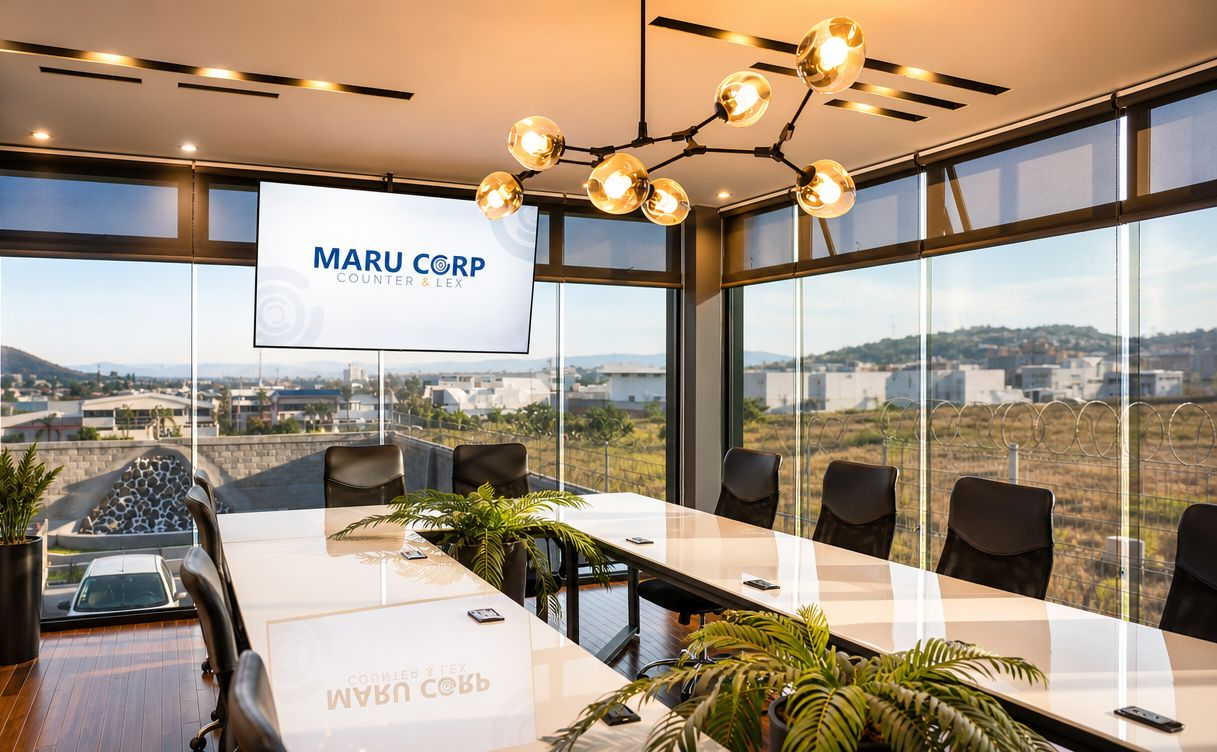
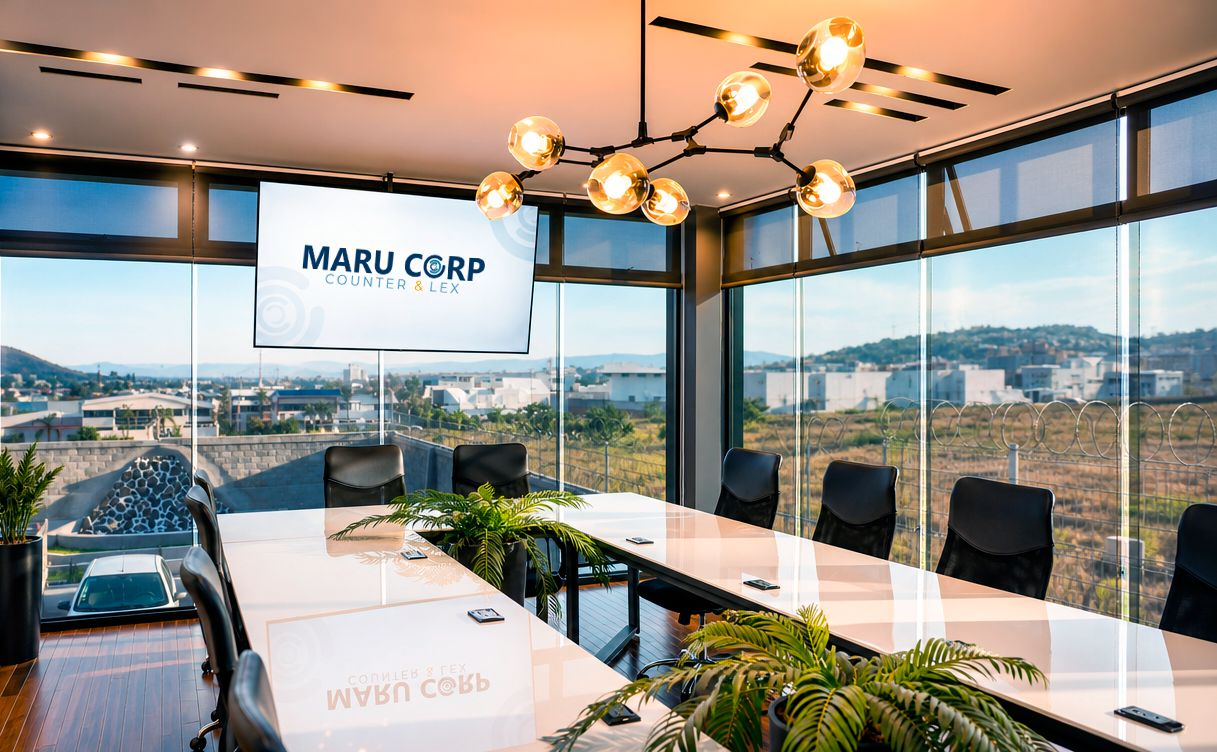
Ajustes de contenido y estilo: titulo en un renglon, testimonios justificados, mayusculas, redes sociales en footer, articulos centrados, CTA en blanco, nueva foto sala de juntas y timeout de Supabase

diff --git a/index.html b/index.html
@@ -30,14 +30,14 @@
     "areaServed": "Querétaro"
   }
   </script>
-  <link rel="stylesheet" href="css/styles.css?v=60">
+  <link rel="stylesheet" href="css/styles.css?v=63">
   <link rel="stylesheet" href="css/brand-premium.css?v=60">
   <link rel="stylesheet" href="css/header.css?v=70">
   <link rel="stylesheet" href="css/preloader.css">
   <link rel="stylesheet" href="css/custom-cursor.css">
   <link rel="stylesheet" href="css/home-animations.css?v=62">
   <link rel="stylesheet" href="css/home-hero.css?v=62">
-  <link rel="stylesheet" href="css/home-strategic.css?v=68">
+  <link rel="stylesheet" href="css/home-strategic.css?v=71">
   <link rel="stylesheet" href="css/responsive.css?v=70">
   <link rel="stylesheet" href="css/photos.css?v=1">
 </head>
@@ -541,13 +541,13 @@
           <h3 class="home-subhead">MARU CORP es ideal para empresas que:</h3>
         </div>
         <div class="home-audience-grid reveal-stagger home-cards-live">
-          <article class="audience-item audience-item--gold home-tilt"><span class="audience-item__icon" aria-hidden="true">✓</span><span class="audience-item__text">tienen entre 20 y 300 colaboradores;</span></article>
-          <article class="audience-item audience-item--blue home-tilt"><span class="audience-item__icon" aria-hidden="true">✓</span><span class="audience-item__text">operan con varias áreas o responsables;</span></article>
-          <article class="audience-item audience-item--navy home-tilt"><span class="audience-item__icon" aria-hidden="true">✓</span><span class="audience-item__text">tienen crecimiento desordenado;</span></article>
-          <article class="audience-item audience-item--sky home-tilt"><span class="audience-item__icon" aria-hidden="true">✓</span><span class="audience-item__text">trabajan con distintos proveedores;</span></article>
-          <article class="audience-item audience-item--gold home-tilt"><span class="audience-item__icon" aria-hidden="true">✓</span><span class="audience-item__text">necesitan mayor control fiscal, laboral o administrativo;</span></article>
-          <article class="audience-item audience-item--blue home-tilt"><span class="audience-item__icon" aria-hidden="true">✓</span><span class="audience-item__text">sienten que la operación depende demasiado del dueño;</span></article>
-          <article class="audience-item audience-item--navy home-tilt"><span class="audience-item__icon" aria-hidden="true">✓</span><span class="audience-item__text">quieren prevenir errores antes de que escalen.</span></article>
+          <article class="audience-item audience-item--gold home-tilt"><span class="audience-item__icon" aria-hidden="true">✓</span><span class="audience-item__text">Tienen entre 20 y 300 colaboradores;</span></article>
+          <article class="audience-item audience-item--blue home-tilt"><span class="audience-item__icon" aria-hidden="true">✓</span><span class="audience-item__text">Operan con varias áreas o responsables;</span></article>
+          <article class="audience-item audience-item--navy home-tilt"><span class="audience-item__icon" aria-hidden="true">✓</span><span class="audience-item__text">Tienen crecimiento desordenado;</span></article>
+          <article class="audience-item audience-item--sky home-tilt"><span class="audience-item__icon" aria-hidden="true">✓</span><span class="audience-item__text">Trabajan con distintos proveedores;</span></article>
+          <article class="audience-item audience-item--gold home-tilt"><span class="audience-item__icon" aria-hidden="true">✓</span><span class="audience-item__text">Necesitan mayor control fiscal, laboral o administrativo;</span></article>
+          <article class="audience-item audience-item--blue home-tilt"><span class="audience-item__icon" aria-hidden="true">✓</span><span class="audience-item__text">Sienten que la operación depende demasiado del dueño;</span></article>
+          <article class="audience-item audience-item--navy home-tilt"><span class="audience-item__icon" aria-hidden="true">✓</span><span class="audience-item__text">Quieren prevenir errores antes de que escalen.</span></article>
         </div>
         <p class="home-closing-line reveal">Cuando una empresa crece, la supervisión deja de ser opcional.</p>
       </div>
@@ -696,8 +696,8 @@
       <div class="footer-bottom">
         <p>© <span id="year"></span> MARU CORP. Todos los derechos reservados.</p>
         <div class="footer-social">
-          <a href="https://www.facebook.com/marucorpqro/" target="_blank" rel="noopener" aria-label="Facebook de MARU CORP">f</a>
-          <a href="https://www.instagram.com/maru_corp/" target="_blank" rel="noopener" aria-label="Instagram de MARU CORP">in</a>
+          <a href="https://www.facebook.com/marucorpqro/" target="_blank" rel="noopener" aria-label="Facebook de MARU CORP"><svg viewBox="0 0 24 24" aria-hidden="true" focusable="false"><path fill="currentColor" d="M13.5 21.5v-8h2.7l.4-3.2h-3.1V8.3c0-.9.3-1.5 1.6-1.5h1.7V4c-.3 0-1.3-.1-2.5-.1-2.4 0-4.1 1.5-4.1 4.2v2.3H7.5v3.2h2.7v8h3.3z"/></svg></a>
+          <a href="https://www.instagram.com/maru_corp/" target="_blank" rel="noopener" aria-label="Instagram de MARU CORP"><svg viewBox="0 0 24 24" aria-hidden="true" focusable="false"><rect x="3.5" y="3.5" width="17" height="17" rx="5" fill="none" stroke="currentColor" stroke-width="1.9"/><circle cx="12" cy="12" r="3.9" fill="none" stroke="currentColor" stroke-width="1.9"/><circle cx="17.2" cy="6.8" r="1.2" fill="currentColor"/></svg></a>
         </div>
       </div>
     </div>

diff --git a/insights-empresariales.html b/insights-empresariales.html
@@ -9,9 +9,9 @@
   <link rel="canonical" href="https://marucorp.mx/insights-empresariales.html">
   <meta property="og:title" content="Insights de Supervisión Empresarial | MARU CORP">
   <meta property="og:description" content="Análisis, ideas y recomendaciones sobre supervisión empresarial, riesgos invisibles, prevención fiscal-laboral y operación integrada.">
-  <link rel="stylesheet" href="css/styles.css">
+  <link rel="stylesheet" href="css/styles.css?v=63">
   <link rel="stylesheet" href="css/brand-premium.css">
-  <link rel="stylesheet" href="css/insights-page.css?v=70">
+  <link rel="stylesheet" href="css/insights-page.css?v=72">
   <link rel="stylesheet" href="css/header.css?v=70">
   <link rel="stylesheet" href="css/custom-cursor.css">
   <link rel="stylesheet" href="css/pages-enhanced.css?v=68">
@@ -184,8 +184,8 @@
       <div class="footer-bottom">
         <p>Todos los derechos reservados © <span id="year"></span> | Editado por Disidente Creativo</p>
         <div class="footer-social">
-          <a href="https://www.facebook.com/marucorpqro/" aria-label="Facebook" target="_blank" rel="noopener">Facebook</a>
-          <a href="https://www.instagram.com/maru_corp/" aria-label="Instagram" target="_blank" rel="noopener">Instagram</a>
+          <a href="https://www.facebook.com/marucorpqro/" target="_blank" rel="noopener" aria-label="Facebook de MARU CORP"><svg viewBox="0 0 24 24" aria-hidden="true" focusable="false"><path fill="currentColor" d="M13.5 21.5v-8h2.7l.4-3.2h-3.1V8.3c0-.9.3-1.5 1.6-1.5h1.7V4c-.3 0-1.3-.1-2.5-.1-2.4 0-4.1 1.5-4.1 4.2v2.3H7.5v3.2h2.7v8h3.3z"/></svg></a>
+          <a href="https://www.instagram.com/maru_corp/" target="_blank" rel="noopener" aria-label="Instagram de MARU CORP"><svg viewBox="0 0 24 24" aria-hidden="true" focusable="false"><rect x="3.5" y="3.5" width="17" height="17" rx="5" fill="none" stroke="currentColor" stroke-width="1.9"/><circle cx="12" cy="12" r="3.9" fill="none" stroke="currentColor" stroke-width="1.9"/><circle cx="17.2" cy="6.8" r="1.2" fill="currentColor"/></svg></a>
         </div>
       </div>
     </div>
@@ -199,7 +199,7 @@
   <script>document.getElementById('year').textContent = new Date().getFullYear();</script>
   <script src="js/main.js"></script>
   <script src="js/supabase-config.js?v=2"></script>
-  <script src="js/blog-data.js?v=1"></script>
+  <script src="js/blog-data.js?v=2"></script>
   <script src="js/insights.js?v=4"></script>
   <script src="js/custom-cursor.js"></script>
 </body>

diff --git a/insights/servicios-administrativos-vs-control-empresarial.html b/insights/servicios-administrativos-vs-control-empresarial.html
@@ -6,9 +6,9 @@
   <link rel="icon" href="../img/favicon.png" type="image/png">
   <title>Diferencia entre contratar servicios administrativos y tener control empresarial | Insights — MARU CORP</title>
   <meta name="description" content="Contratar servicios resuelve tareas. El control empresarial da visibilidad, coordinación y prevención. Son enfoques distintos con resultados muy diferentes.">
-  <link rel="stylesheet" href="../css/styles.css">
+  <link rel="stylesheet" href="../css/styles.css?v=63">
   <link rel="stylesheet" href="../css/brand-premium.css">
-  <link rel="stylesheet" href="../css/insights-page.css?v=67">
+  <link rel="stylesheet" href="../css/insights-page.css?v=72">
   <link rel="stylesheet" href="../css/header.css?v=70">
   <link rel="stylesheet" href="../css/custom-cursor.css">
   <link rel="stylesheet" href="../css/pages-enhanced.css?v=68">
@@ -154,8 +154,8 @@
       <div class="footer-bottom">
         <p>Todos los derechos reservados © <span id="year"></span> | Editado por Disidente Creativo</p>
         <div class="footer-social">
-          <a href="https://www.facebook.com/marucorpqro/" aria-label="Facebook" target="_blank" rel="noopener">Facebook</a>
-          <a href="https://www.instagram.com/maru_corp/" aria-label="Instagram" target="_blank" rel="noopener">Instagram</a>
+          <a href="https://www.facebook.com/marucorpqro/" target="_blank" rel="noopener" aria-label="Facebook de MARU CORP"><svg viewBox="0 0 24 24" aria-hidden="true" focusable="false"><path fill="currentColor" d="M13.5 21.5v-8h2.7l.4-3.2h-3.1V8.3c0-.9.3-1.5 1.6-1.5h1.7V4c-.3 0-1.3-.1-2.5-.1-2.4 0-4.1 1.5-4.1 4.2v2.3H7.5v3.2h2.7v8h3.3z"/></svg></a>
+          <a href="https://www.instagram.com/maru_corp/" target="_blank" rel="noopener" aria-label="Instagram de MARU CORP"><svg viewBox="0 0 24 24" aria-hidden="true" focusable="false"><rect x="3.5" y="3.5" width="17" height="17" rx="5" fill="none" stroke="currentColor" stroke-width="1.9"/><circle cx="12" cy="12" r="3.9" fill="none" stroke="currentColor" stroke-width="1.9"/><circle cx="17.2" cy="6.8" r="1.2" fill="currentColor"/></svg></a>
         </div>
       </div>
     </div>

diff --git a/insights/riesgos-fiscales-procesos-desordenados.html b/insights/riesgos-fiscales-procesos-desordenados.html
@@ -6,9 +6,9 @@
   <link rel="icon" href="../img/favicon.png" type="image/png">
   <title>Riesgos fiscales que nacen de procesos internos mal coordinados | Insights — MARU CORP</title>
   <meta name="description" content="No todos los riesgos fiscales vienen del SAT. Muchos se originan en procesos administrativos desordenados, documentación incompleta y falta de seguimiento entre áreas.">
-  <link rel="stylesheet" href="../css/styles.css">
+  <link rel="stylesheet" href="../css/styles.css?v=63">
   <link rel="stylesheet" href="../css/brand-premium.css">
-  <link rel="stylesheet" href="../css/insights-page.css?v=67">
+  <link rel="stylesheet" href="../css/insights-page.css?v=72">
   <link rel="stylesheet" href="../css/header.css?v=70">
   <link rel="stylesheet" href="../css/custom-cursor.css">
   <link rel="stylesheet" href="../css/pages-enhanced.css?v=68">
@@ -154,8 +154,8 @@
       <div class="footer-bottom">
         <p>Todos los derechos reservados © <span id="year"></span> | Editado por Disidente Creativo</p>
         <div class="footer-social">
-          <a href="https://www.facebook.com/marucorpqro/" aria-label="Facebook" target="_blank" rel="noopener">Facebook</a>
-          <a href="https://www.instagram.com/maru_corp/" aria-label="Instagram" target="_blank" rel="noopener">Instagram</a>
+          <a href="https://www.facebook.com/marucorpqro/" target="_blank" rel="noopener" aria-label="Facebook de MARU CORP"><svg viewBox="0 0 24 24" aria-hidden="true" focusable="false"><path fill="currentColor" d="M13.5 21.5v-8h2.7l.4-3.2h-3.1V8.3c0-.9.3-1.5 1.6-1.5h1.7V4c-.3 0-1.3-.1-2.5-.1-2.4 0-4.1 1.5-4.1 4.2v2.3H7.5v3.2h2.7v8h3.3z"/></svg></a>
+          <a href="https://www.instagram.com/maru_corp/" target="_blank" rel="noopener" aria-label="Instagram de MARU CORP"><svg viewBox="0 0 24 24" aria-hidden="true" focusable="false"><rect x="3.5" y="3.5" width="17" height="17" rx="5" fill="none" stroke="currentColor" stroke-width="1.9"/><circle cx="12" cy="12" r="3.9" fill="none" stroke="currentColor" stroke-width="1.9"/><circle cx="17.2" cy="6.8" r="1.2" fill="currentColor"/></svg></a>
         </div>
       </div>
     </div>

diff --git a/insights/varios-proveedores-riesgos-administrativos.html b/insights/varios-proveedores-riesgos-administrativos.html
@@ -6,9 +6,9 @@
   <link rel="icon" href="../img/favicon.png" type="image/png">
   <title>Por qué tener varios proveedores puede aumentar tus riesgos administrativos | Insights — MARU CORP</title>
   <meta name="description" content="Contratar especialistas por área no garantiza control. Sin coordinación central, los riesgos administrativos pueden multiplicarse en lugar de reducirse.">
-  <link rel="stylesheet" href="../css/styles.css">
+  <link rel="stylesheet" href="../css/styles.css?v=63">
   <link rel="stylesheet" href="../css/brand-premium.css">
-  <link rel="stylesheet" href="../css/insights-page.css?v=67">
+  <link rel="stylesheet" href="../css/insights-page.css?v=72">
   <link rel="stylesheet" href="../css/header.css?v=70">
   <link rel="stylesheet" href="../css/custom-cursor.css">
   <link rel="stylesheet" href="../css/pages-enhanced.css?v=68">
@@ -156,8 +156,8 @@
       <div class="footer-bottom">
         <p>Todos los derechos reservados © <span id="year"></span> | Editado por Disidente Creativo</p>
         <div class="footer-social">
-          <a href="https://www.facebook.com/marucorpqro/" aria-label="Facebook" target="_blank" rel="noopener">Facebook</a>
-          <a href="https://www.instagram.com/maru_corp/" aria-label="Instagram" target="_blank" rel="noopener">Instagram</a>
+          <a href="https://www.facebook.com/marucorpqro/" target="_blank" rel="noopener" aria-label="Facebook de MARU CORP"><svg viewBox="0 0 24 24" aria-hidden="true" focusable="false"><path fill="currentColor" d="M13.5 21.5v-8h2.7l.4-3.2h-3.1V8.3c0-.9.3-1.5 1.6-1.5h1.7V4c-.3 0-1.3-.1-2.5-.1-2.4 0-4.1 1.5-4.1 4.2v2.3H7.5v3.2h2.7v8h3.3z"/></svg></a>
+          <a href="https://www.instagram.com/maru_corp/" target="_blank" rel="noopener" aria-label="Instagram de MARU CORP"><svg viewBox="0 0 24 24" aria-hidden="true" focusable="false"><rect x="3.5" y="3.5" width="17" height="17" rx="5" fill="none" stroke="currentColor" stroke-width="1.9"/><circle cx="12" cy="12" r="3.9" fill="none" stroke="currentColor" stroke-width="1.9"/><circle cx="17.2" cy="6.8" r="1.2" fill="currentColor"/></svg></a>
         </div>
       </div>
     </div>

diff --git a/insights/dueno-unico-punto-control.html b/insights/dueno-unico-punto-control.html
@@ -6,9 +6,9 @@
   <link rel="icon" href="../img/favicon.png" type="image/png">
   <title>Por qué el dueño no debería ser el único punto de control de la empresa | Insights — MARU CORP</title>
   <meta name="description" content="Cuando toda la operación depende del dueño para resolver desconexiones, la empresa tiene un cuello de botella estructural que limita su crecimiento.">
-  <link rel="stylesheet" href="../css/styles.css">
+  <link rel="stylesheet" href="../css/styles.css?v=63">
   <link rel="stylesheet" href="../css/brand-premium.css">
-  <link rel="stylesheet" href="../css/insights-page.css?v=67">
+  <link rel="stylesheet" href="../css/insights-page.css?v=72">
   <link rel="stylesheet" href="../css/header.css?v=70">
   <link rel="stylesheet" href="../css/custom-cursor.css">
   <link rel="stylesheet" href="../css/pages-enhanced.css?v=68">
@@ -154,8 +154,8 @@
       <div class="footer-bottom">
         <p>Todos los derechos reservados © <span id="year"></span> | Editado por Disidente Creativo</p>
         <div class="footer-social">
-          <a href="https://www.facebook.com/marucorpqro/" aria-label="Facebook" target="_blank" rel="noopener">Facebook</a>
-          <a href="https://www.instagram.com/maru_corp/" aria-label="Instagram" target="_blank" rel="noopener">Instagram</a>
+          <a href="https://www.facebook.com/marucorpqro/" target="_blank" rel="noopener" aria-label="Facebook de MARU CORP"><svg viewBox="0 0 24 24" aria-hidden="true" focusable="false"><path fill="currentColor" d="M13.5 21.5v-8h2.7l.4-3.2h-3.1V8.3c0-.9.3-1.5 1.6-1.5h1.7V4c-.3 0-1.3-.1-2.5-.1-2.4 0-4.1 1.5-4.1 4.2v2.3H7.5v3.2h2.7v8h3.3z"/></svg></a>
+          <a href="https://www.instagram.com/maru_corp/" target="_blank" rel="noopener" aria-label="Instagram de MARU CORP"><svg viewBox="0 0 24 24" aria-hidden="true" focusable="false"><rect x="3.5" y="3.5" width="17" height="17" rx="5" fill="none" stroke="currentColor" stroke-width="1.9"/><circle cx="12" cy="12" r="3.9" fill="none" stroke="currentColor" stroke-width="1.9"/><circle cx="17.2" cy="6.8" r="1.2" fill="currentColor"/></svg></a>
         </div>
       </div>
     </div>

diff --git a/insights/5-senales-perdiendo-control-operativo.html b/insights/5-senales-perdiendo-control-operativo.html
@@ -6,9 +6,9 @@
   <link rel="icon" href="../img/favicon.png" type="image/png">
   <title>5 señales de que tu empresa está perdiendo control operativo | Insights — MARU CORP</title>
   <meta name="description" content="Cuando las áreas funcionan sin supervisión transversal, la dirección pierde visibilidad. Estas señales indican que tu empresa necesita una capa de control.">
-  <link rel="stylesheet" href="../css/styles.css">
+  <link rel="stylesheet" href="../css/styles.css?v=63">
   <link rel="stylesheet" href="../css/brand-premium.css">
-  <link rel="stylesheet" href="../css/insights-page.css?v=67">
+  <link rel="stylesheet" href="../css/insights-page.css?v=72">
   <link rel="stylesheet" href="../css/header.css?v=70">
   <link rel="stylesheet" href="../css/custom-cursor.css">
   <link rel="stylesheet" href="../css/pages-enhanced.css?v=68">
@@ -159,8 +159,8 @@
       <div class="footer-bottom">
         <p>Todos los derechos reservados © <span id="year"></span> | Editado por Disidente Creativo</p>
         <div class="footer-social">
-          <a href="https://www.facebook.com/marucorpqro/" aria-label="Facebook" target="_blank" rel="noopener">Facebook</a>
-          <a href="https://www.instagram.com/maru_corp/" aria-label="Instagram" target="_blank" rel="noopener">Instagram</a>
+          <a href="https://www.facebook.com/marucorpqro/" target="_blank" rel="noopener" aria-label="Facebook de MARU CORP"><svg viewBox="0 0 24 24" aria-hidden="true" focusable="false"><path fill="currentColor" d="M13.5 21.5v-8h2.7l.4-3.2h-3.1V8.3c0-.9.3-1.5 1.6-1.5h1.7V4c-.3 0-1.3-.1-2.5-.1-2.4 0-4.1 1.5-4.1 4.2v2.3H7.5v3.2h2.7v8h3.3z"/></svg></a>
+          <a href="https://www.instagram.com/maru_corp/" target="_blank" rel="noopener" aria-label="Instagram de MARU CORP"><svg viewBox="0 0 24 24" aria-hidden="true" focusable="false"><rect x="3.5" y="3.5" width="17" height="17" rx="5" fill="none" stroke="currentColor" stroke-width="1.9"/><circle cx="12" cy="12" r="3.9" fill="none" stroke="currentColor" stroke-width="1.9"/><circle cx="17.2" cy="6.8" r="1.2" fill="currentColor"/></svg></a>
         </div>
       </div>
     </div>

diff --git a/insights/errores-invisibles-nomina.html b/insights/errores-invisibles-nomina.html
@@ -6,9 +6,9 @@
   <link rel="icon" href="../img/favicon.png" type="image/png">
   <title>Errores invisibles en nómina que pueden afectar a empresas en crecimiento | Insights — MARU CORP</title>
   <meta name="description" content="La nómina conecta laboral, fiscal e IMSS. Errores que parecen menores pueden acumular exposición significativa en empresas que crecen rápido.">
-  <link rel="stylesheet" href="../css/styles.css">
+  <link rel="stylesheet" href="../css/styles.css?v=63">
   <link rel="stylesheet" href="../css/brand-premium.css">
-  <link rel="stylesheet" href="../css/insights-page.css?v=67">
+  <link rel="stylesheet" href="../css/insights-page.css?v=72">
   <link rel="stylesheet" href="../css/header.css?v=70">
   <link rel="stylesheet" href="../css/custom-cursor.css">
   <link rel="stylesheet" href="../css/pages-enhanced.css?v=68">
@@ -156,8 +156,8 @@
       <div class="footer-bottom">
         <p>Todos los derechos reservados © <span id="year"></span> | Editado por Disidente Creativo</p>
         <div class="footer-social">
-          <a href="https://www.facebook.com/marucorpqro/" aria-label="Facebook" target="_blank" rel="noopener">Facebook</a>
-          <a href="https://www.instagram.com/maru_corp/" aria-label="Instagram" target="_blank" rel="noopener">Instagram</a>
+          <a href="https://www.facebook.com/marucorpqro/" target="_blank" rel="noopener" aria-label="Facebook de MARU CORP"><svg viewBox="0 0 24 24" aria-hidden="true" focusable="false"><path fill="currentColor" d="M13.5 21.5v-8h2.7l.4-3.2h-3.1V8.3c0-.9.3-1.5 1.6-1.5h1.7V4c-.3 0-1.3-.1-2.5-.1-2.4 0-4.1 1.5-4.1 4.2v2.3H7.5v3.2h2.7v8h3.3z"/></svg></a>
+          <a href="https://www.instagram.com/maru_corp/" target="_blank" rel="noopener" aria-label="Instagram de MARU CORP"><svg viewBox="0 0 24 24" aria-hidden="true" focusable="false"><rect x="3.5" y="3.5" width="17" height="17" rx="5" fill="none" stroke="currentColor" stroke-width="1.9"/><circle cx="12" cy="12" r="3.9" fill="none" stroke="currentColor" stroke-width="1.9"/><circle cx="17.2" cy="6.8" r="1.2" fill="currentColor"/></svg></a>
         </div>
       </div>
     </div>

diff --git a/insights/conectar-contabilidad-nomina-administracion.html b/insights/conectar-contabilidad-nomina-administracion.html
@@ -6,9 +6,9 @@
   <link rel="icon" href="../img/favicon.png" type="image/png">
   <title>La importancia de conectar contabilidad, nómina y administración | Insights — MARU CORP</title>
   <meta name="description" content="Cuando estas tres áreas operan aisladas, la empresa pierde trazabilidad, acumula errores y la dirección pierde claridad sobre su operación real.">
-  <link rel="stylesheet" href="../css/styles.css">
+  <link rel="stylesheet" href="../css/styles.css?v=63">
   <link rel="stylesheet" href="../css/brand-premium.css">
-  <link rel="stylesheet" href="../css/insights-page.css?v=67">
+  <link rel="stylesheet" href="../css/insights-page.css?v=72">
   <link rel="stylesheet" href="../css/header.css?v=70">
   <link rel="stylesheet" href="../css/custom-cursor.css">
   <link rel="stylesheet" href="../css/pages-enhanced.css?v=68">
@@ -154,8 +154,8 @@
       <div class="footer-bottom">
         <p>Todos los derechos reservados © <span id="year"></span> | Editado por Disidente Creativo</p>
         <div class="footer-social">
-          <a href="https://www.facebook.com/marucorpqro/" aria-label="Facebook" target="_blank" rel="noopener">Facebook</a>
-          <a href="https://www.instagram.com/maru_corp/" aria-label="Instagram" target="_blank" rel="noopener">Instagram</a>
+          <a href="https://www.facebook.com/marucorpqro/" target="_blank" rel="noopener" aria-label="Facebook de MARU CORP"><svg viewBox="0 0 24 24" aria-hidden="true" focusable="false"><path fill="currentColor" d="M13.5 21.5v-8h2.7l.4-3.2h-3.1V8.3c0-.9.3-1.5 1.6-1.5h1.7V4c-.3 0-1.3-.1-2.5-.1-2.4 0-4.1 1.5-4.1 4.2v2.3H7.5v3.2h2.7v8h3.3z"/></svg></a>
+          <a href="https://www.instagram.com/maru_corp/" target="_blank" rel="noopener" aria-label="Instagram de MARU CORP"><svg viewBox="0 0 24 24" aria-hidden="true" focusable="false"><rect x="3.5" y="3.5" width="17" height="17" rx="5" fill="none" stroke="currentColor" stroke-width="1.9"/><circle cx="12" cy="12" r="3.9" fill="none" stroke="currentColor" stroke-width="1.9"/><circle cx="17.2" cy="6.8" r="1.2" fill="currentColor"/></svg></a>
         </div>
       </div>
     </div>

diff --git a/insights/crecimiento-desordenado-empresas-medianas.html b/insights/crecimiento-desordenado-empresas-medianas.html
@@ -6,9 +6,9 @@
   <link rel="icon" href="../img/favicon.png" type="image/png">
   <title>Crecimiento desordenado: el riesgo silencioso de las empresas medianas | Insights — MARU CORP</title>
   <meta name="description" content="Escalar ventas y operación sin estructura de control es uno de los riesgos más subestimados. Analizamos por qué ocurre y cómo prevenirlo.">
-  <link rel="stylesheet" href="../css/styles.css">
+  <link rel="stylesheet" href="../css/styles.css?v=63">
   <link rel="stylesheet" href="../css/brand-premium.css">
-  <link rel="stylesheet" href="../css/insights-page.css?v=67">
+  <link rel="stylesheet" href="../css/insights-page.css?v=72">
   <link rel="stylesheet" href="../css/header.css?v=70">
   <link rel="stylesheet" href="../css/custom-cursor.css">
   <link rel="stylesheet" href="../css/pages-enhanced.css?v=68">
@@ -154,8 +154,8 @@
       <div class="footer-bottom">
         <p>Todos los derechos reservados © <span id="year"></span> | Editado por Disidente Creativo</p>
         <div class="footer-social">
-          <a href="https://www.facebook.com/marucorpqro/" aria-label="Facebook" target="_blank" rel="noopener">Facebook</a>
-          <a href="https://www.instagram.com/maru_corp/" aria-label="Instagram" target="_blank" rel="noopener">Instagram</a>
+          <a href="https://www.facebook.com/marucorpqro/" target="_blank" rel="noopener" aria-label="Facebook de MARU CORP"><svg viewBox="0 0 24 24" aria-hidden="true" focusable="false"><path fill="currentColor" d="M13.5 21.5v-8h2.7l.4-3.2h-3.1V8.3c0-.9.3-1.5 1.6-1.5h1.7V4c-.3 0-1.3-.1-2.5-.1-2.4 0-4.1 1.5-4.1 4.2v2.3H7.5v3.2h2.7v8h3.3z"/></svg></a>
+          <a href="https://www.instagram.com/maru_corp/" target="_blank" rel="noopener" aria-label="Instagram de MARU CORP"><svg viewBox="0 0 24 24" aria-hidden="true" focusable="false"><rect x="3.5" y="3.5" width="17" height="17" rx="5" fill="none" stroke="currentColor" stroke-width="1.9"/><circle cx="12" cy="12" r="3.9" fill="none" stroke="currentColor" stroke-width="1.9"/><circle cx="17.2" cy="6.8" r="1.2" fill="currentColor"/></svg></a>
         </div>
       </div>
     </div>

diff --git a/insights/revisar-antes-problema-laboral.html b/insights/revisar-antes-problema-laboral.html
@@ -6,9 +6,9 @@
   <link rel="icon" href="../img/favicon.png" type="image/png">
   <title>Qué revisar antes de que un problema laboral se convierta en contingencia | Insights — MARU CORP</title>
   <meta name="description" content="Un checklist preventivo para evaluar contratos, nómina, prestaciones e IMSS antes de que un conflicto laboral genere costos mayores.">
-  <link rel="stylesheet" href="../css/styles.css">
+  <link rel="stylesheet" href="../css/styles.css?v=63">
   <link rel="stylesheet" href="../css/brand-premium.css">
-  <link rel="stylesheet" href="../css/insights-page.css?v=67">
+  <link rel="stylesheet" href="../css/insights-page.css?v=72">
   <link rel="stylesheet" href="../css/header.css?v=70">
   <link rel="stylesheet" href="../css/custom-cursor.css">
   <link rel="stylesheet" href="../css/pages-enhanced.css?v=68">
@@ -158,8 +158,8 @@
       <div class="footer-bottom">
         <p>Todos los derechos reservados © <span id="year"></span> | Editado por Disidente Creativo</p>
         <div class="footer-social">
-          <a href="https://www.facebook.com/marucorpqro/" aria-label="Facebook" target="_blank" rel="noopener">Facebook</a>
-          <a href="https://www.instagram.com/maru_corp/" aria-label="Instagram" target="_blank" rel="noopener">Instagram</a>
+          <a href="https://www.facebook.com/marucorpqro/" target="_blank" rel="noopener" aria-label="Facebook de MARU CORP"><svg viewBox="0 0 24 24" aria-hidden="true" focusable="false"><path fill="currentColor" d="M13.5 21.5v-8h2.7l.4-3.2h-3.1V8.3c0-.9.3-1.5 1.6-1.5h1.7V4c-.3 0-1.3-.1-2.5-.1-2.4 0-4.1 1.5-4.1 4.2v2.3H7.5v3.2h2.7v8h3.3z"/></svg></a>
+          <a href="https://www.instagram.com/maru_corp/" target="_blank" rel="noopener" aria-label="Instagram de MARU CORP"><svg viewBox="0 0 24 24" aria-hidden="true" focusable="false"><rect x="3.5" y="3.5" width="17" height="17" rx="5" fill="none" stroke="currentColor" stroke-width="1.9"/><circle cx="12" cy="12" r="3.9" fill="none" stroke="currentColor" stroke-width="1.9"/><circle cx="17.2" cy="6.8" r="1.2" fill="currentColor"/></svg></a>
         </div>
       </div>
     </div>

diff --git a/insights/empresa-necesita-supervision.html b/insights/empresa-necesita-supervision.html
@@ -6,9 +6,9 @@
   <link rel="icon" href="../img/favicon.png" type="image/png">
   <title>Cómo saber si tu empresa necesita supervisión empresarial | Insights — MARU CORP</title>
   <meta name="description" content="Criterios claros para evaluar si tu empresa opera con suficiente visibilidad o necesita una capa de control transversal.">
-  <link rel="stylesheet" href="../css/styles.css">
+  <link rel="stylesheet" href="../css/styles.css?v=63">
   <link rel="stylesheet" href="../css/brand-premium.css">
-  <link rel="stylesheet" href="../css/insights-page.css?v=67">
+  <link rel="stylesheet" href="../css/insights-page.css?v=72">
   <link rel="stylesheet" href="../css/header.css?v=70">
   <link rel="stylesheet" href="../css/custom-cursor.css">
   <link rel="stylesheet" href="../css/pages-enhanced.css?v=68">
@@ -154,8 +154,8 @@
       <div class="footer-bottom">
         <p>Todos los derechos reservados © <span id="year"></span> | Editado por Disidente Creativo</p>
         <div class="footer-social">
-          <a href="https://www.facebook.com/marucorpqro/" aria-label="Facebook" target="_blank" rel="noopener">Facebook</a>
-          <a href="https://www.instagram.com/maru_corp/" aria-label="Instagram" target="_blank" rel="noopener">Instagram</a>
+          <a href="https://www.facebook.com/marucorpqro/" target="_blank" rel="noopener" aria-label="Facebook de MARU CORP"><svg viewBox="0 0 24 24" aria-hidden="true" focusable="false"><path fill="currentColor" d="M13.5 21.5v-8h2.7l.4-3.2h-3.1V8.3c0-.9.3-1.5 1.6-1.5h1.7V4c-.3 0-1.3-.1-2.5-.1-2.4 0-4.1 1.5-4.1 4.2v2.3H7.5v3.2h2.7v8h3.3z"/></svg></a>
+          <a href="https://www.instagram.com/maru_corp/" target="_blank" rel="noopener" aria-label="Instagram de MARU CORP"><svg viewBox="0 0 24 24" aria-hidden="true" focusable="false"><rect x="3.5" y="3.5" width="17" height="17" rx="5" fill="none" stroke="currentColor" stroke-width="1.9"/><circle cx="12" cy="12" r="3.9" fill="none" stroke="currentColor" stroke-width="1.9"/><circle cx="17.2" cy="6.8" r="1.2" fill="currentColor"/></svg></a>
         </div>
       </div>
     </div>
